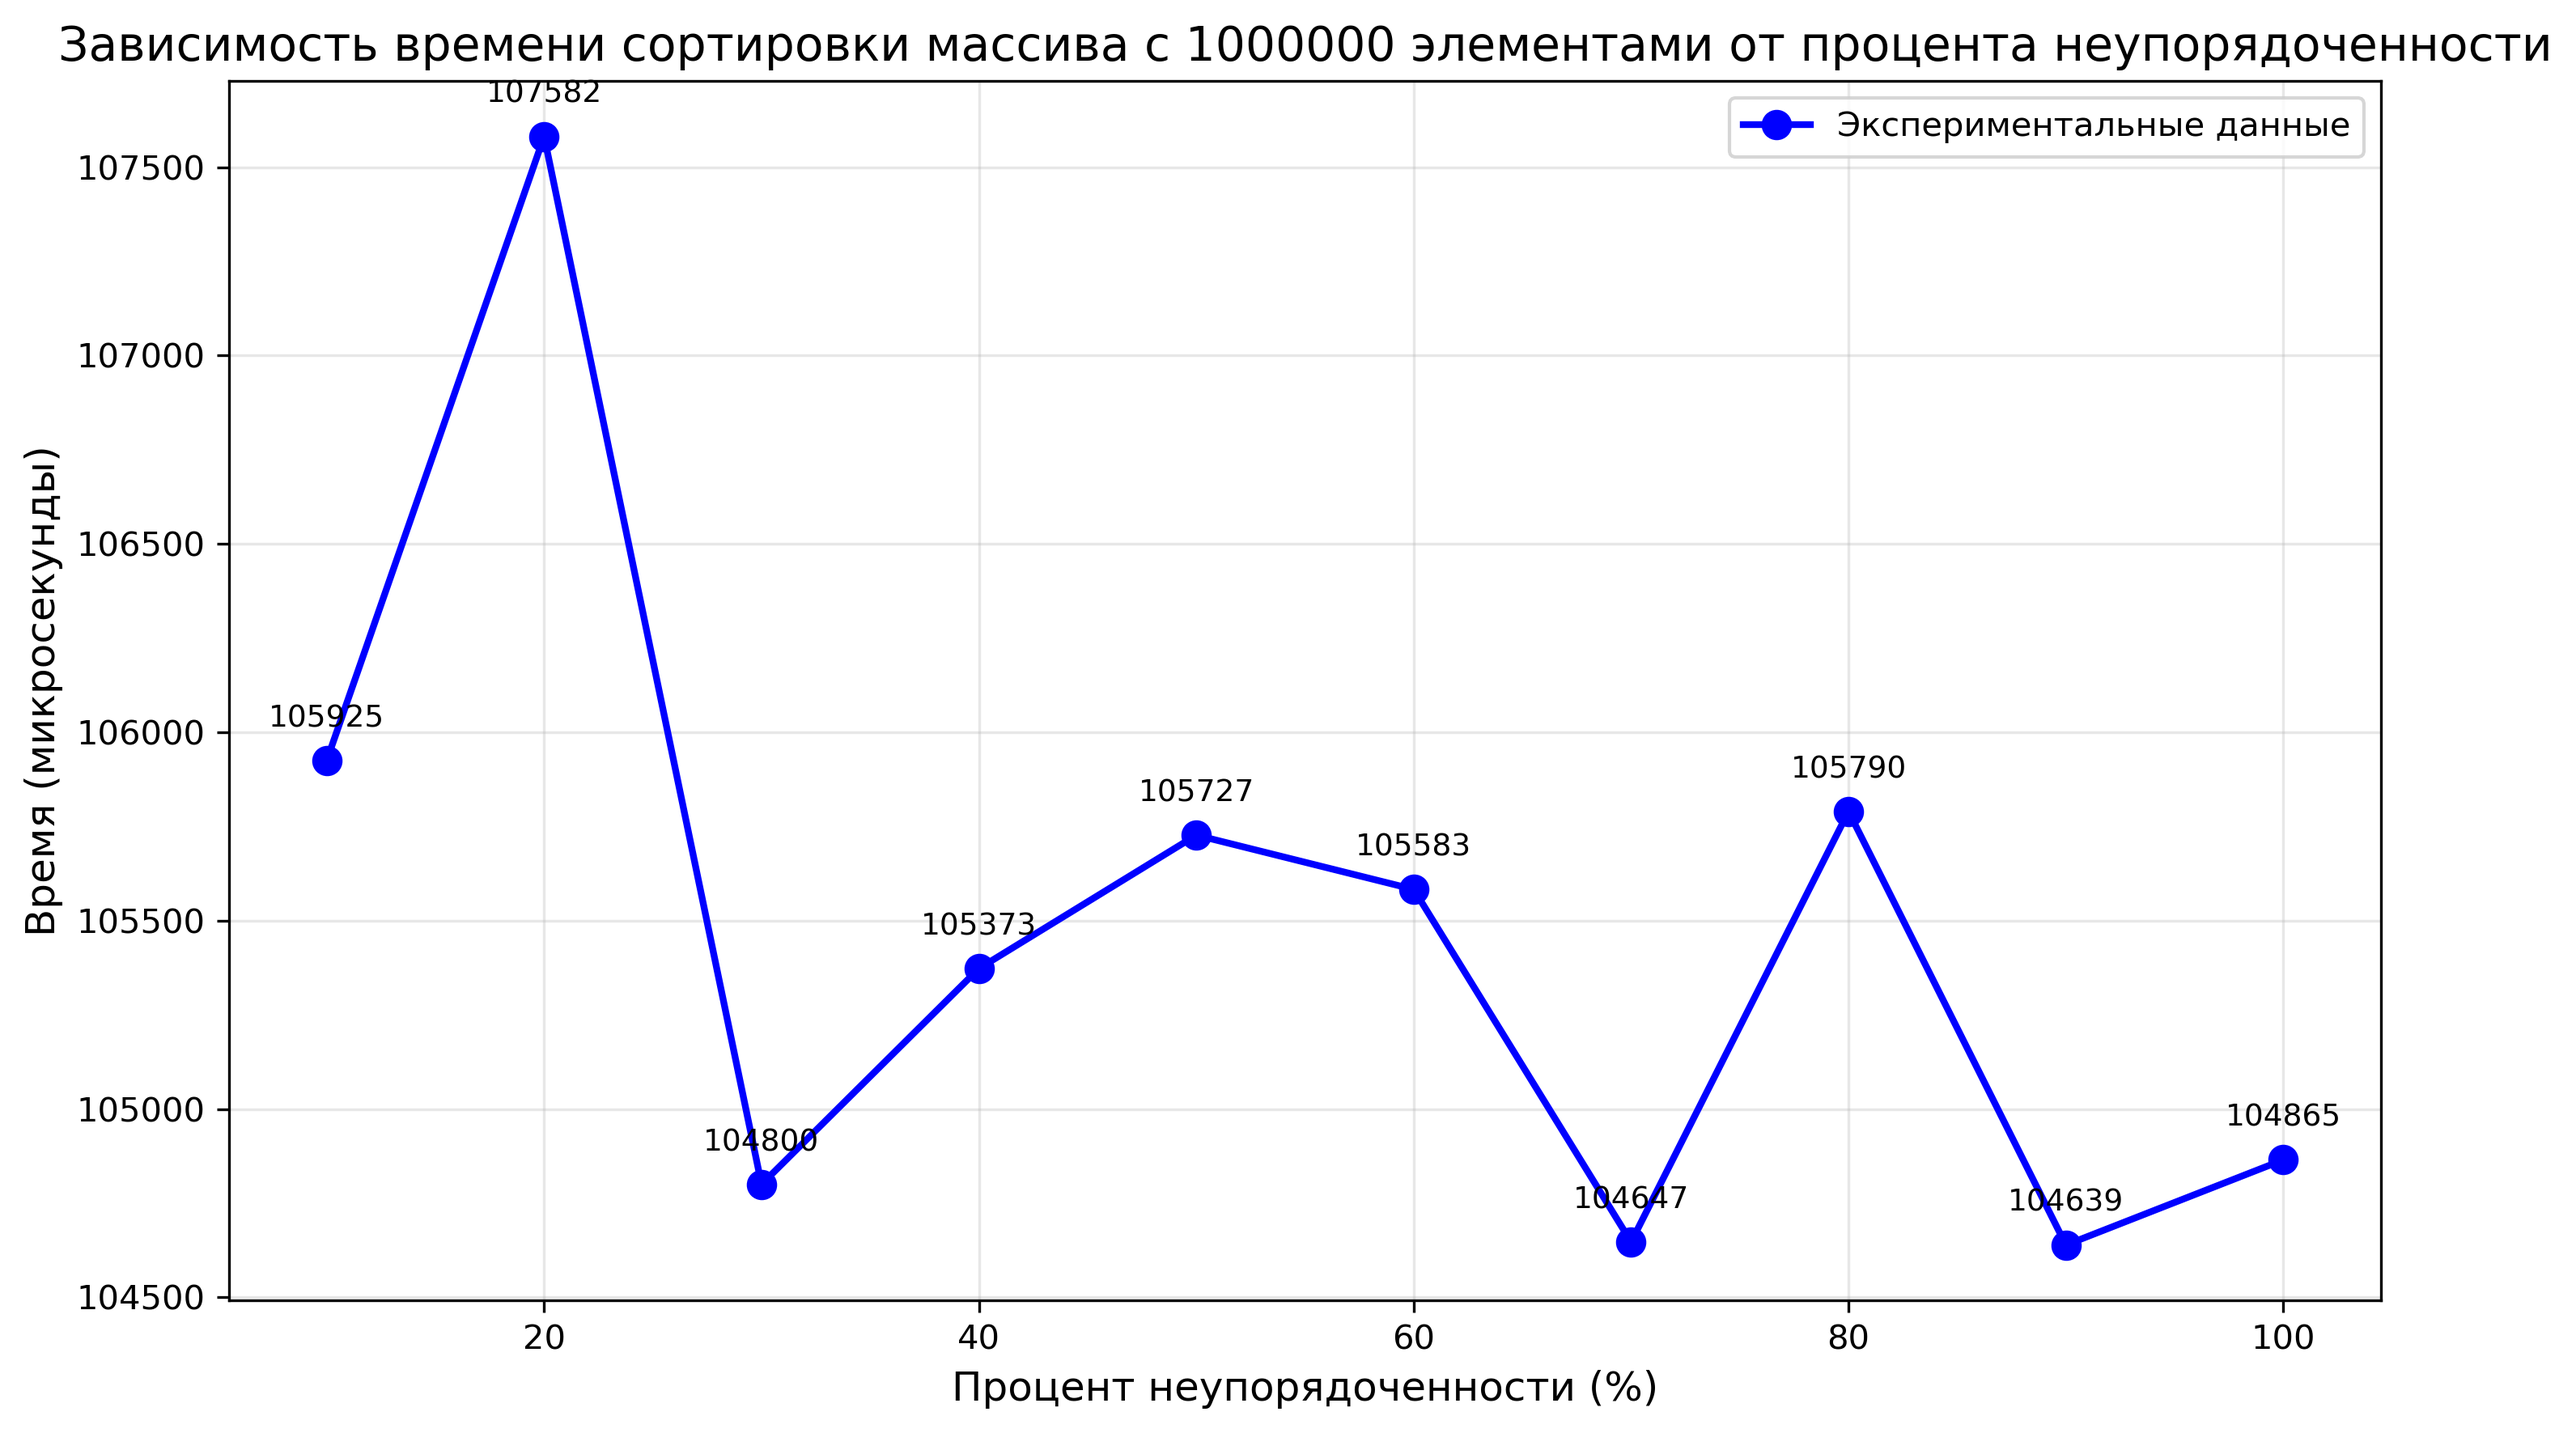
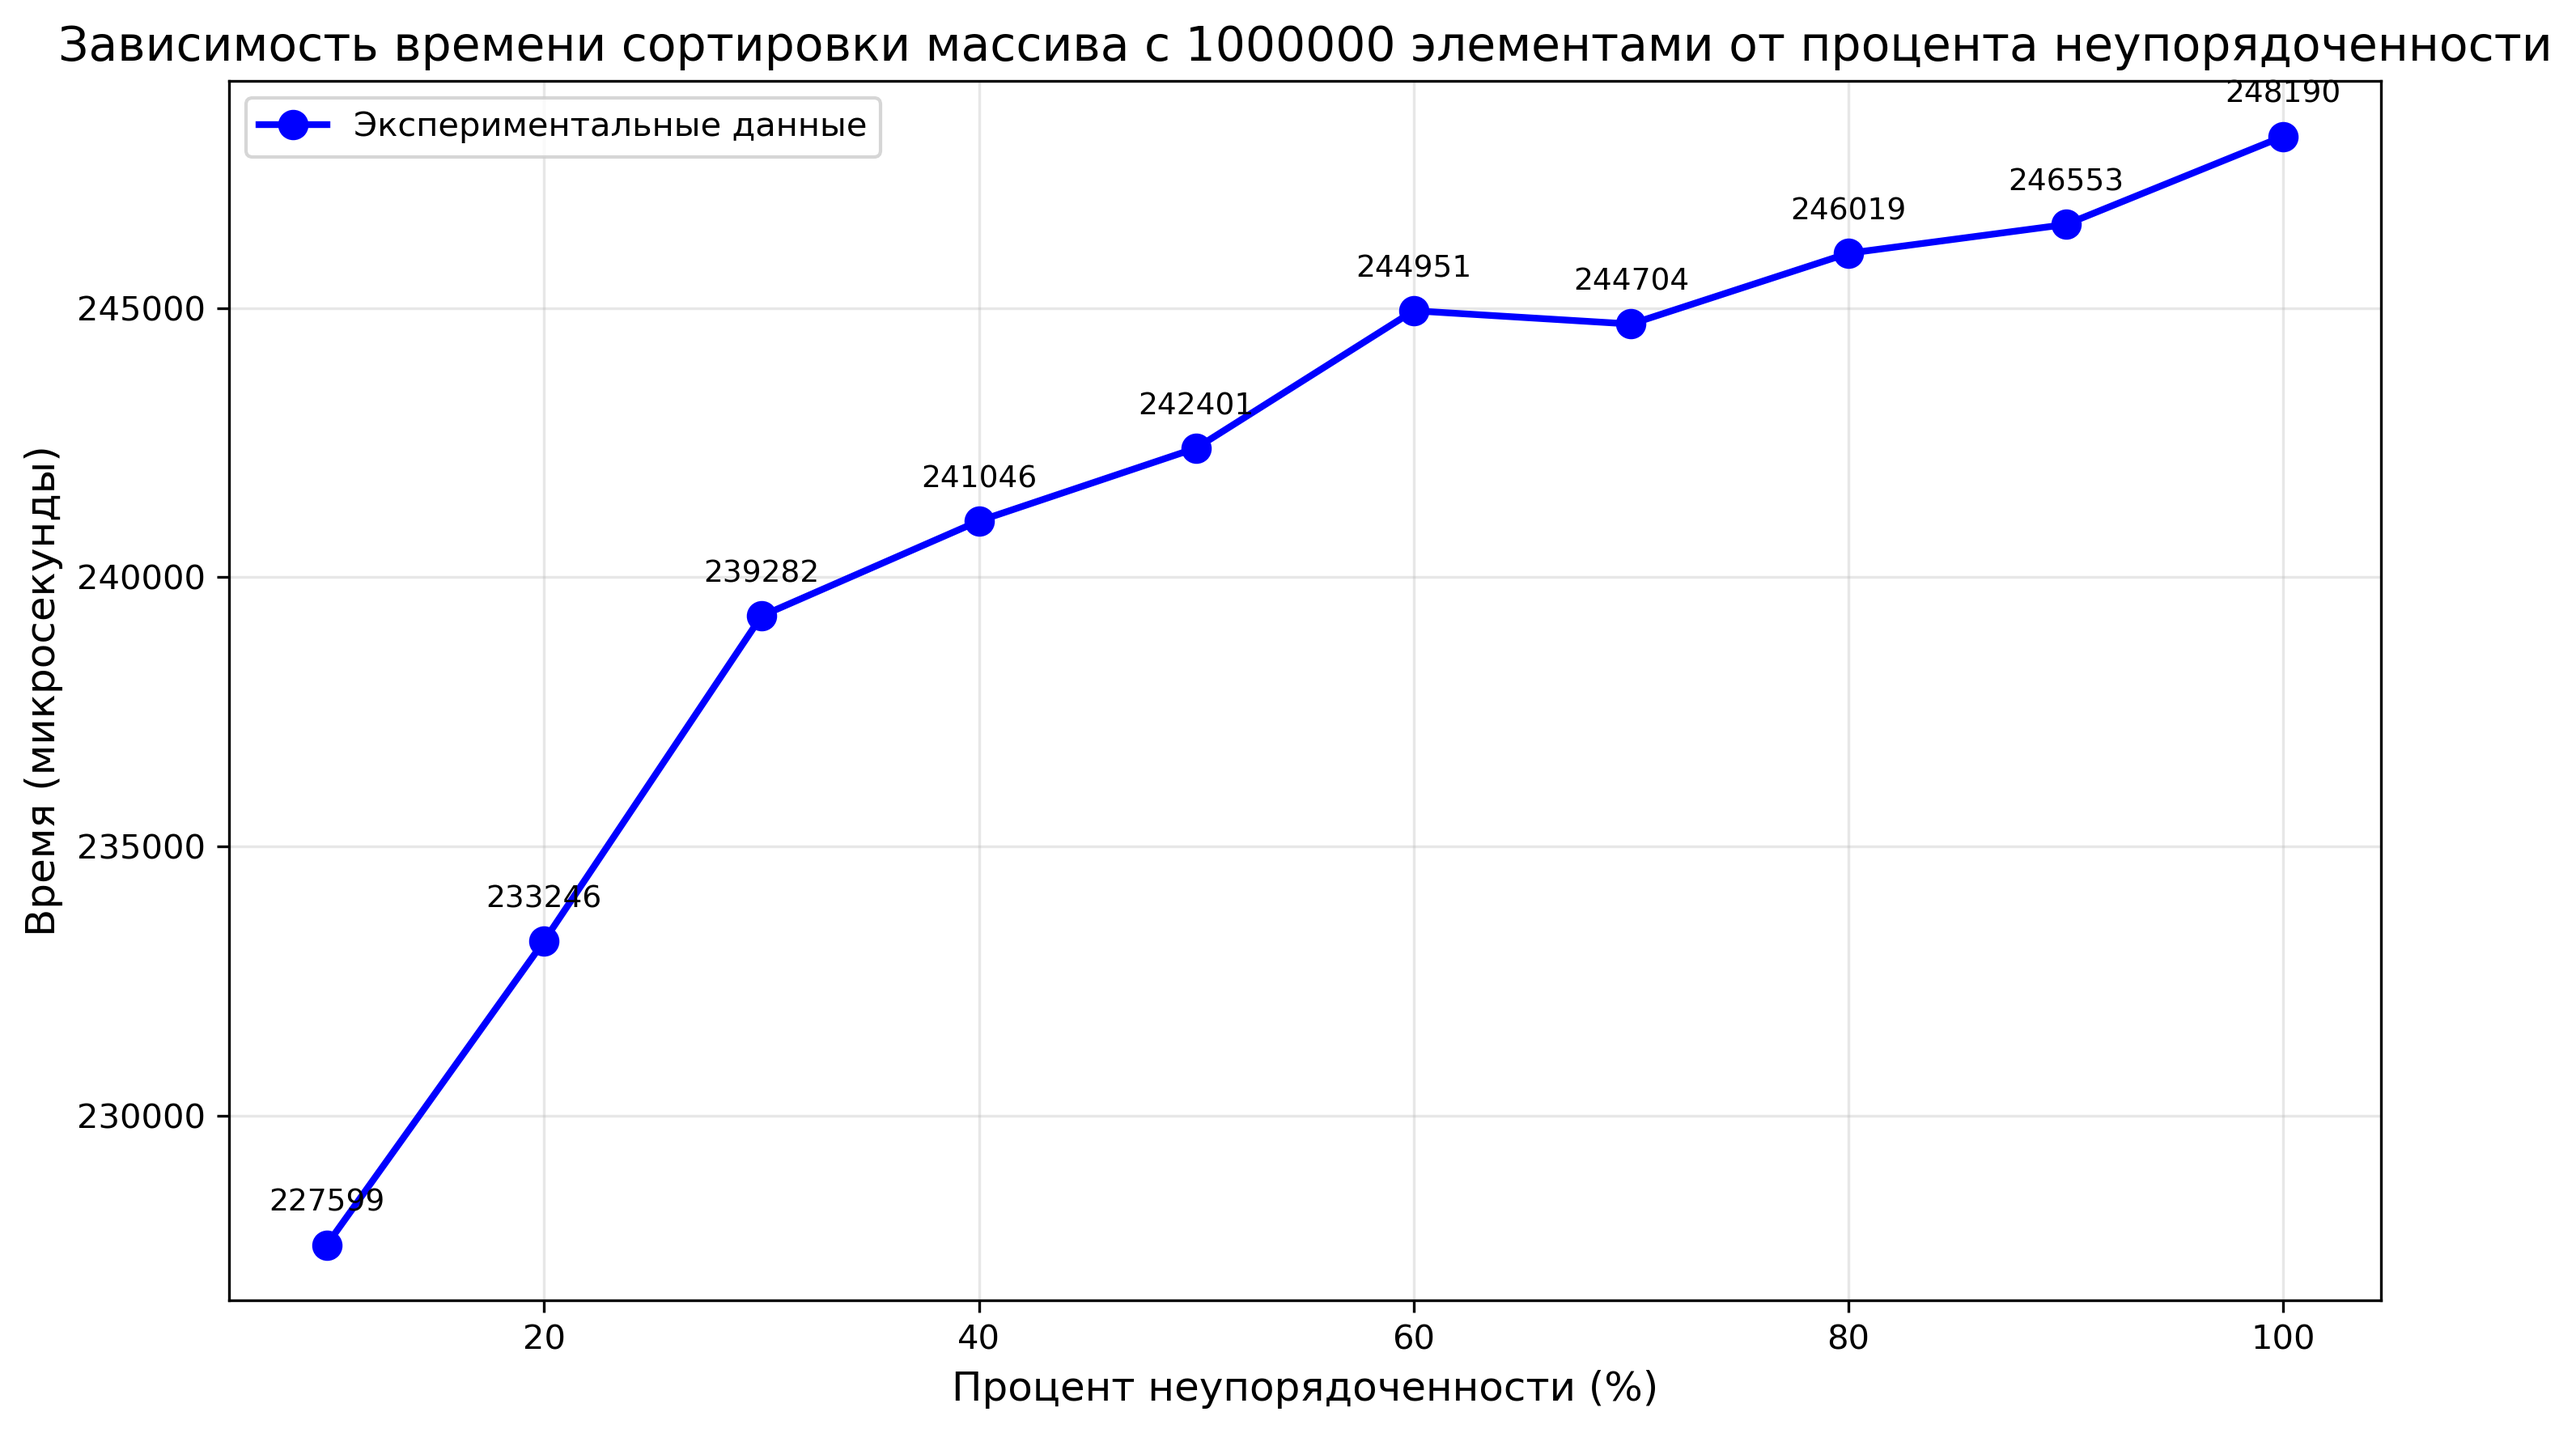
Improving 1 task

diff --git a/lecture2/task1/main.cpp b/lecture2/task1/main.cpp
@@ -6,10 +6,82 @@
 #include <chrono>
 #include <algorithm>
 
-void improvedBubbleSort(int arr[], int n) {
-    if (n <= 1) return;
+template <typename T>
+class MyVector {
+private:
+    T* data;
+    size_t size;
+    size_t capacity;
 
-    int gap = n;
+    void grow() {
+        capacity = (capacity == 0) ? 1 : capacity * 2;
+        reallocate(capacity);
+    }
+
+    void reallocate(size_t new_cap) {
+        T* new_data = new T[new_cap];
+        for (size_t i = 0; i < size; ++i) {
+            new_data[i] = data[i];
+        }
+
+        delete[] data;
+        data = new_data;
+        capacity = new_cap;
+    }
+
+public:
+    MyVector() : data(nullptr), size(0), capacity(0) {}
+
+    MyVector(const MyVector& other) : data(nullptr), size(0), capacity(0) {
+        *this = other;
+    }
+
+    ~MyVector() {
+        delete[] data;
+    }
+
+    void push_back(const T& value) {
+        if (size == capacity) {
+            grow();
+        }
+
+        data[size++] = value;
+    }
+
+    
+    T* begin() {
+        return data;
+    }
+
+    T* end() {
+        return data + size;
+    }
+
+    const T* begin() const {
+        return data;
+    }
+    const T* end() const {
+        return data + size;
+    }
+
+    size_t getSize() const {
+        return size;
+    }
+
+    T& operator[](size_t idx) {
+        return data[idx];
+    }
+
+    const T& operator[](size_t idx) const {
+        return data[idx];
+    }
+};
+
+template <typename T>
+void improvedBubbleSort(MyVector<T> &vec) {
+    if (vec.getSize() <= 1) return;
+
+    int gap = static_cast<int>(vec.getSize());
     bool swapped = true;
 
     while (gap > 1 || swapped) {
@@ -19,33 +91,41 @@ void improvedBubbleSort(int arr[], int n) {
         swapped = false;
 
         // ->
-        for (int i = 0; i < n - gap; ++i) {
-            if (arr[i] > arr[i + gap]) {
-                std::swap(arr[i], arr[i + gap]);
+        for (int i = 0; i < static_cast<int>(vec.getSize()) - gap; ++i) {
+            if (vec[i] > vec[i + gap]) {
+                std::swap(vec[i], vec[i + gap]);
                 swapped = true;
             }
         }
 
         // <-
         if (swapped) {
-            for (int i = n - gap - 1; i >= 0; --i) {
-                if (arr[i] > arr[i + gap]) {
-                    std::swap(arr[i], arr[i + gap]);
+            bool reverse_swapped = false;
+
+            for (int i = static_cast<int>(vec.getSize()) - gap - 1; i >= 0; --i) {
+                if (vec[i] > vec[i + gap]) {
+                    std::swap(vec[i], vec[i + gap]);
+                    reverse_swapped = true;
                 }
             }
+
+            swapped = reverse_swapped;
         }
     }
 }
 
-void printVector(int *arr, int N) {
-    for (int i = 0; i < N; i++) {
+template <typename T>
+void printVector(MyVector<T> &arr) {
+    for (size_t i = 0; i < arr.getSize(); i++) {
         std::cout << arr[i] << " ";
     }
 
     std::cout << "\n";
 }
 
-void shuffleVector(int *arr, int N, int p) {
+template <typename T>
+void shuffleVector(MyVector<T> &arr, int p) {
+    const int N = arr.getSize();
     if (N <= 0 || p <= 0 || p > 100) return;
     
     std::random_device rd;
@@ -76,27 +156,27 @@ int main(const int argc, const char *argv[]) {
     // N = argv[1], p = argv[2]
     if (argc > 1) N = std::stoi(argv[1]);
 
-    int arr[N];
+    MyVector<int> arr;
 
     std::srand(std::time(nullptr));
 
     for (int i = 0; i < N; i++) {
-        arr[i] = rand() % 50 + 1;
+        arr.push_back(rand() % 50 + 1);
     }
 
     #if !defined(_SIZE_) && !defined(_SHUFFLE_)
     std::cout << "Vector before sorting:\n";
-    printVector(arr, N);
+    printVector(arr);
     std::cout << "\n";
 
-    improvedBubbleSort(arr, N);
+    improvedBubbleSort(arr);
     std::cout << "Vector after sorting:\n";
-    printVector(arr, N);
+    printVector(arr);
     #endif
 
     #ifdef _SIZE_
     auto start = std::chrono::high_resolution_clock::now();
-    improvedBubbleSort(arr, N);
+    improvedBubbleSort(arr);
     auto end = std::chrono::high_resolution_clock::now();
 
     auto duration = std::chrono::duration_cast<std::chrono::microseconds>(end - start);
@@ -107,16 +187,16 @@ int main(const int argc, const char *argv[]) {
     int p = 50; // shuffle_percentage
     if (argc > 2) p = std::stoi(argv[2]);
 
-    improvedBubbleSort(arr, N);
+    improvedBubbleSort(arr);
 
-    shuffleVector(arr, N, p);
+    shuffleVector(arr, p);
 
     auto start = std::chrono::high_resolution_clock::now();
-    improvedBubbleSort(arr, N);
+    improvedBubbleSort(arr);
     auto end = std::chrono::high_resolution_clock::now();
 
     auto duration = std::chrono::duration_cast<std::chrono::microseconds>(end - start);
-    std::cout << duration.count() << "\n";
+    std::cout << p << " " << duration.count() << "\n";
     #endif
 
     return 0;
